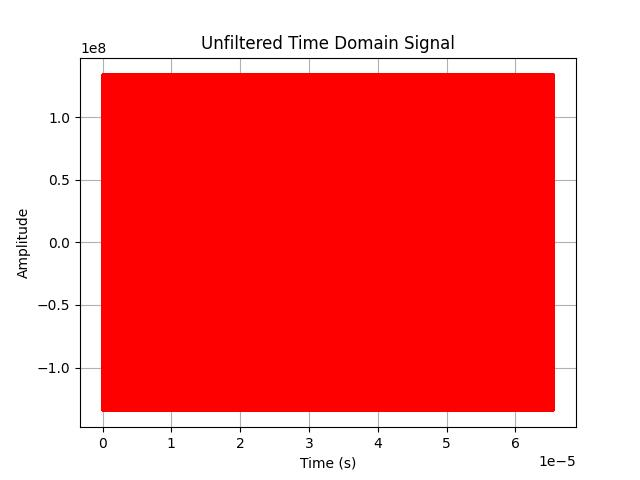
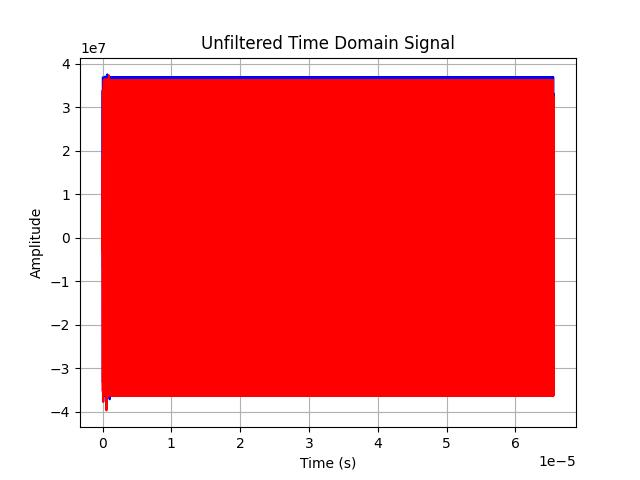
Added interpolating filter

diff --git a/quadrature_amplitude_modulation.py b/quadrature_amplitude_modulation.py
@@ -3,6 +3,7 @@ import matplotlib.pyplot as plt
 import math
 import sys
 import matplotlib.pyplot as plt
+from scipy import signal
 
 INTEGER_BITS = 32
 INTEGER_SCALE = 2**INTEGER_BITS
@@ -130,17 +131,39 @@ for i in range(0, DATA_SIZE):
 
 #		print('i = ', i, 'j = ', j, 'I = ', i_mixer_output[i*32+j].real, 'Q = ', q_mixer_output[i*32+j].imag, 'I DDS = ', dds_output_i[i*32+j], 'Q DDS = ', dds_output_q[i*32+j], 'symbols Real = ', symbols_array[i][j].real, 'symbols imag = ', symbols_array[i][j].imag)
 
-transmit_time = np.arange(0, (DATA_SIZE*int(INTEGER_BITS/2))/sample_rate, 1/sample_rate)
+# Upsample the data to get 4 samples per symbol
+i_data_up = np.zeros(len(i_mixer_output) * SAMPLES_PER_SYMBOL)
+q_data_up = np.zeros(len(q_mixer_output) * SAMPLES_PER_SYMBOL)
+i_data_up[::SAMPLES_PER_SYMBOL] = i_mixer_output
+q_data_up[::SAMPLES_PER_SYMBOL] = q_mixer_output
 
-plt.plot(transmit_time, i_mixer_output, color='blue')
-plt.plot(transmit_time, q_mixer_output, color='red')
+# 2. Design an interpolation low-pass FIR filter
+# The cutoff frequency should be 1/SAMPLES_PER_SYMBOL of the original Nyquist frequency
+# We use firwin to design a linear-phase filter
+# The filter cutoff is specified as a normalized frequency (0 to 1, where 1 is Nyquist)
+# For interpolation, the cutoff should be 1/SAMPLES_PER_SYMBOL relative to the *new* Nyquist frequency
+# (which is the original Nyquist * SAMPLES_PER_SYMBOL), so we use 1/SAMPLES_PER_SYMBOL as the normalized cutoff.
+nyquist_rate_new = 0.5 # Normalized to 1
+cutoff_norm = nyquist_rate_new / SAMPLES_PER_SYMBOL
+
+# Design filter coefficients, scale the taps by L to maintain signal amplitude
+taps = signal.firwin(127, cutoff_norm, window='hamming', scale=SAMPLES_PER_SYMBOL)
+
+# 3. Apply the FIR filter to the upsampled signal
+# lfilter performs a discrete convolution with the taps
+i_data_filtered = signal.lfilter(taps, 1.0, i_data_up)
+q_data_filtered = signal.lfilter(taps, 1.0, q_data_up)
+
+transmit_time = np.arange(0, (DATA_SIZE*SAMPLES_PER_SYMBOL*int(INTEGER_BITS/2))/(sample_rate*SAMPLES_PER_SYMBOL), (1/(sample_rate*SAMPLES_PER_SYMBOL)))
+
+plt.plot(transmit_time, i_data_filtered, color='blue')
+plt.plot(transmit_time, q_data_filtered, color='red')
 plt.xlabel("Time (s)")
 plt.ylabel("Amplitude")
 plt.title("Unfiltered Time Domain Signal")
 plt.grid(True)
 plt.savefig("signal_time_domain.jpg")
 plt.show()
-
 
 # Receive side
 
